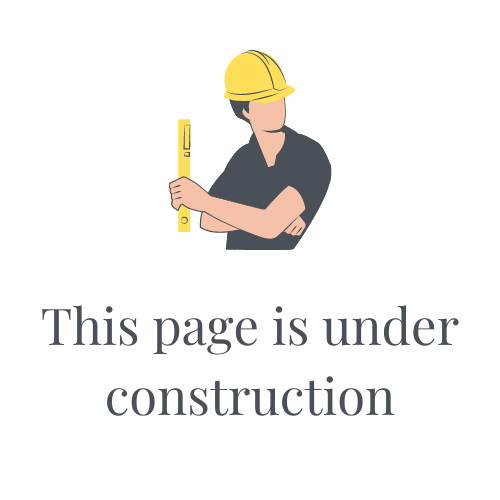
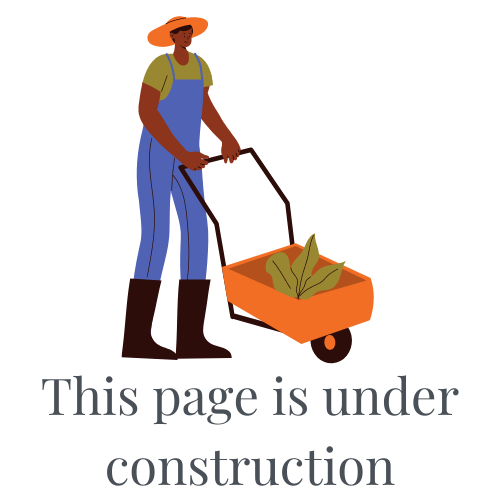
changed construction image placeholder to better match website aesthetic, updated home page with placeholder text

Changed region(s): [[0.06, 0.03, 0.93, 0.87], [0.21, 0.9, 0.78, 0.99]]

diff --git a/src/components/Home/index.js b/src/components/Home/index.js
@@ -12,41 +12,58 @@ function Home(props) {
       <Container>
         <Typography
           color="primary"
+          align="left"
+          justify="center"
+          mt={7}
+          variant="h4"
+        >
+          Food is an opportunity for joy in our lives. Eating nourishing food is
+          an act of self-love.
+        </Typography>
+        
+        <Typography
+          color="primary"
           fontFamily="Roboto"
           fontSize="30"
           variant="body1"
-          my={8}
+          mt={5}
           align="left"
           justify="center"
         >
-          Adequate vegetable intake improves health outcomes1 and reduces
-          medical expenses by reducing medications1, decreasing disease states2,
-          improving quality of life3, and displacing less healthy food
-          choices1,2; however, only 10% of American adults consume the
-          recommended daily allowance of vegetables4. Many low-income Americans
-          face significant barriers to consuming more vegetables1. These
-          barriers can include limited access due to financial constraints and
-          transportation; lack of knowledge about benefits of vegetable quantity
-          and diversity; lack of knowledge about preparation and/or
-          incorporating vegetables into their current diet; and limited
-          availability of culturally suitable vegetables5. Livermore! Eat. More.
-          Vegetables. is a newly forming community outreach program aimed at
-          increasing vegetable consumption for all Livermore, California
-          residents. This program’s objective is to increase residents’ intake
-          of vegetables by educating citizens about the benefits of eating
-          vegetables, rallying them to find ways to increase their intake, and
-          utilizing sponsorships and grants to ease access for those who need
-          it. While Livermore! Eat. More. Vegetables. is aimed at all Livermore
-          residents, the proposed 6-month study will focus on Livermore’s
-          low-income residents by measuring this population’s vegetable
-          knowledge, use, and access pre- and post-intervention. By measuring
-          the impact of the proposed intervention, this study can increase the
-          body of knowledge available about community health programs aimed at
-          improving vegetable consumption, improve health outcomes for
-          Livermore’s low-income residents, increase Livermore! Eat. More.
-          Vegetables’ access to sponsorships and grant funding as well as serve
-          as a model for other communities interested in improving health
-          outcomes through increased vegetable consumption.
+          Vegetables can be a key source of important nutrients. Few people's
+          diets include enough vegetables for optimal health.
+        </Typography>
+        <Typography
+          color="primary"
+          fontFamily="Roboto"
+          fontSize="30"
+          variant="body1"
+          mt={5}
+          align="left"
+          justify="center"
+        >
+          Livermore! Eat. More. Vegetables. is a non-profit (filing in process)
+          organization with a goal of increasing Livermore residents' vegetable
+          consumption. This website is an education tool, sharing insights on
+          how to enjoyably include more vegetables each day. In addition, we
+          provide links to research on the latest discoveries about how the
+          quality of our lives improves from eating vegetables.
+        </Typography>
+
+        <Typography
+          color="primary"
+          fontFamily="Roboto"
+          fontSize="30"
+          variant="body1"
+          mt={5}
+          align="left"
+          justify="center"
+        >
+          Why eat vegetables? Adequate vegetable intake improves health outcomes
+          and reduces medical expenses by reducing medications, decreasing
+          disease states, improving quality of life, and displacing less healthy
+          food choices; however, only 10% of American adults consume the
+          recommended daily allowance of vegetables.
         </Typography>
       </Container>
     </section>

diff --git a/src/components/Other/index.js b/src/components/Other/index.js
@@ -2,10 +2,25 @@ import React from "react";
 import OtherCarousel from "../Other-Carousel";
 import Container from "@mui/material/Container";
 import Typography from "@mui/material/Typography";
+import { makeStyles } from "@material-ui/core";
 
 import pageUnder from "../../assets/page-under.png"
 
+const useStyles = makeStyles((theme) => ({
+  underClass: {
+    width: 500,
+    height: 500,
+    [theme.breakpoints.down("sm")]: {
+      height: 300,
+      width: 300,
+    }
+  },
+}));
+
 function Other(props) {
+
+  const classes = useStyles();
+
   return (
     <div>
       <OtherCarousel updateCurrentPage={props.updateCurrentPage} />
@@ -19,7 +34,7 @@ function Other(props) {
         >
           Other
         </Typography>
-        <img src={pageUnder}/>
+        <img src={pageUnder} className={classes.underClass}/>
         <Typography
           color="primary"
           fontFamily="Roboto"

diff --git a/src/components/Benefits/index.js b/src/components/Benefits/index.js
@@ -2,10 +2,25 @@ import React from "react";
 import BenefitsCarousel from "../Benefits-Carousel";
 import Container from "@mui/material/Container";
 import Typography from "@mui/material/Typography";
+import { makeStyles } from "@material-ui/core";
 
 import pageUnder from "../../assets/page-under.png"
 
+const useStyles = makeStyles((theme) => ({
+  underClass: {
+    width: 500,
+    height: 500,
+    [theme.breakpoints.down("sm")]: {
+      height: 300,
+      width: 300,
+    }
+  },
+}));
+
 function Benefits(props) {
+
+  const classes = useStyles();
+
   return (
     <div>
       <BenefitsCarousel updateCurrentPage={props.updateCurrentPage} />
@@ -20,7 +35,7 @@ function Benefits(props) {
         >
          The Benefits
         </Typography>
-        <img src={pageUnder}/>
+        <img src={pageUnder} className={classes.underClass}/>
       </Container>
     </div>
   );

diff --git a/src/components/Who/index.js b/src/components/Who/index.js
@@ -1,11 +1,27 @@
 import React from "react";
 import Container from "@mui/material/Container";
 import Typography from "@mui/material/Typography";
+import { makeStyles } from "@material-ui/core";
+
 import WhoCarousel from "../Who-Carousel";
 
 import pageUnder from "../../assets/page-under.png"
 
+const useStyles = makeStyles((theme) => ({
+  underClass: {
+    width: 500,
+    height: 500,
+    [theme.breakpoints.down("sm")]: {
+      height: 300,
+      width: 300,
+    }
+  },
+}));
+
 function Who(props) {
+
+  const classes = useStyles();
+
   return (
     <div>
       <WhoCarousel updateCurrentPage={props.updateCurrentPage}/>
@@ -19,7 +35,7 @@ function Who(props) {
         >
           Who are we?
         </Typography>
-        <img src={pageUnder}/>
+        <img src={pageUnder} className={classes.underClass}/>
       </Container>
     </div>
   );

diff --git a/src/components/How/index.js b/src/components/How/index.js
@@ -2,10 +2,25 @@ import React from "react";
 import Container from "@mui/material/Container";
 import Typography from "@mui/material/Typography";
 import HowCarousel from "../How-Carousel";
+import { makeStyles } from "@material-ui/core";
 
 import pageUnder from "../../assets/page-under.png"
 
+const useStyles = makeStyles((theme) => ({
+  underClass: {
+    width: 500,
+    height: 500,
+    [theme.breakpoints.down("sm")]: {
+      height: 300,
+      width: 300,
+    }
+  },
+}));
+
 function How(props) {
+
+  const classes = useStyles();
+
   return (
     <div>
       <HowCarousel updateCurrentPage={props.updateCurrentPage} />
@@ -19,7 +34,7 @@ function How(props) {
         >
           How To
         </Typography>
-        <img src={pageUnder}/>
+        <img src={pageUnder} className={classes.underClass}/>
       </Container>
     </div>
   );
